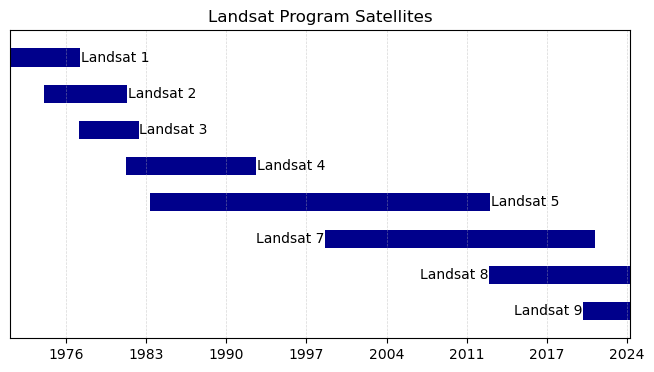
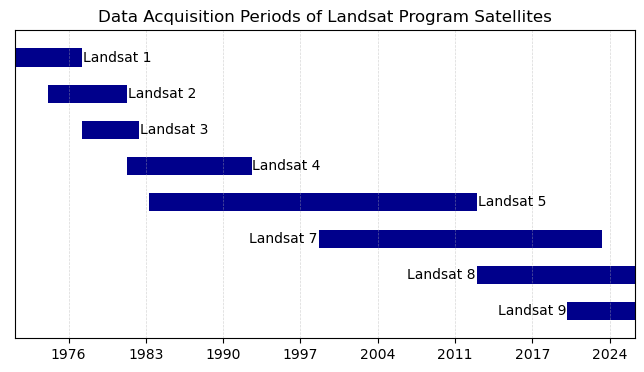
adding some landsat pages

diff --git a/image_scripts/plot_timeline_landsat.py b/image_scripts/plot_timeline_landsat.py
@@ -11,9 +11,9 @@ sat_dates = {'Landsat 1':(np.datetime64('1972-01-01'),np.datetime64('1978-01-21'
              'Landsat 3':(np.datetime64('1978-01-01'),np.datetime64('1983-01-21')),
              'Landsat 4':(np.datetime64('1982-01-01'),np.datetime64('1993-01-21')),
              'Landsat 5':(np.datetime64('1984-01-01'),np.datetime64('2013-01-21')),
-             'Landsat 7':(np.datetime64('1999-01-01'),np.datetime64('2022-01-21')),
-             'Landsat 8':(np.datetime64('2013-01-01'),np.datetime64('2024-12-31')),
-             'Landsat 9':(np.datetime64('2021-01-01'),np.datetime64('2024-12-31'))}
+             'Landsat 7':(np.datetime64('1999-01-01'),np.datetime64('2024-01-19')),
+             'Landsat 8':(np.datetime64('2013-01-01'),np.datetime64('2026-12-31')),
+             'Landsat 9':(np.datetime64('2021-01-01'),np.datetime64('2026-12-31'))}
 sat_names = list(sat_dates.keys())
 
 # make a figure
@@ -33,12 +33,12 @@ for s in range(len(sat_names)):
         plt.text(launch_date - np.timedelta64(4,'W'), s*0.5+0.125, sat_names[s], ha='right', va='center')
 
 # format the axes
-plt.gca().set_xlim([np.datetime64('1972-02-01'),np.datetime64('2025-01-01')])
+plt.gca().set_xlim([np.datetime64('1972-02-01'),np.datetime64('2027-01-01')])
 plt.gca().set_ylim([np.ceil(len(sat_names)/2),-0.25])
 myFmt = mdates.DateFormatter('%Y')
 plt.gca().xaxis.set_major_formatter(myFmt)
 plt.gca().set_yticks([])
-plt.title('Landsat Program Satellites')
+plt.title('Data Acquisition Periods of Landsat Program Satellites')
 plt.grid(linestyle='--', linewidth=0.5, alpha=0.5)
 
 plt.savefig('../images/timeline_landsat.png',bbox_inches='tight')
